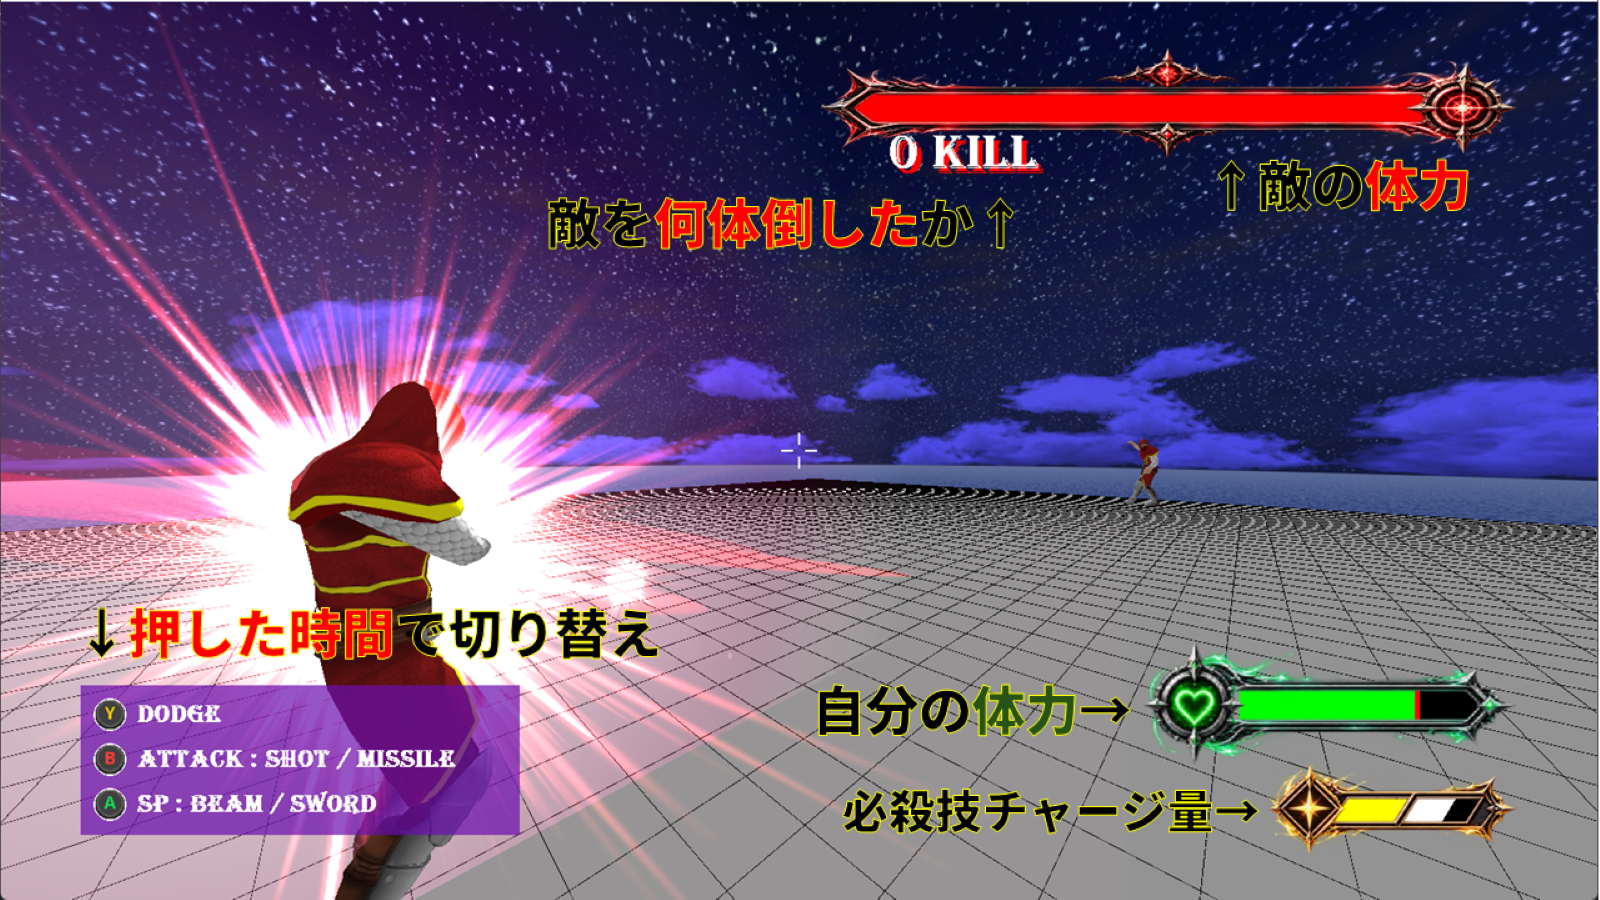
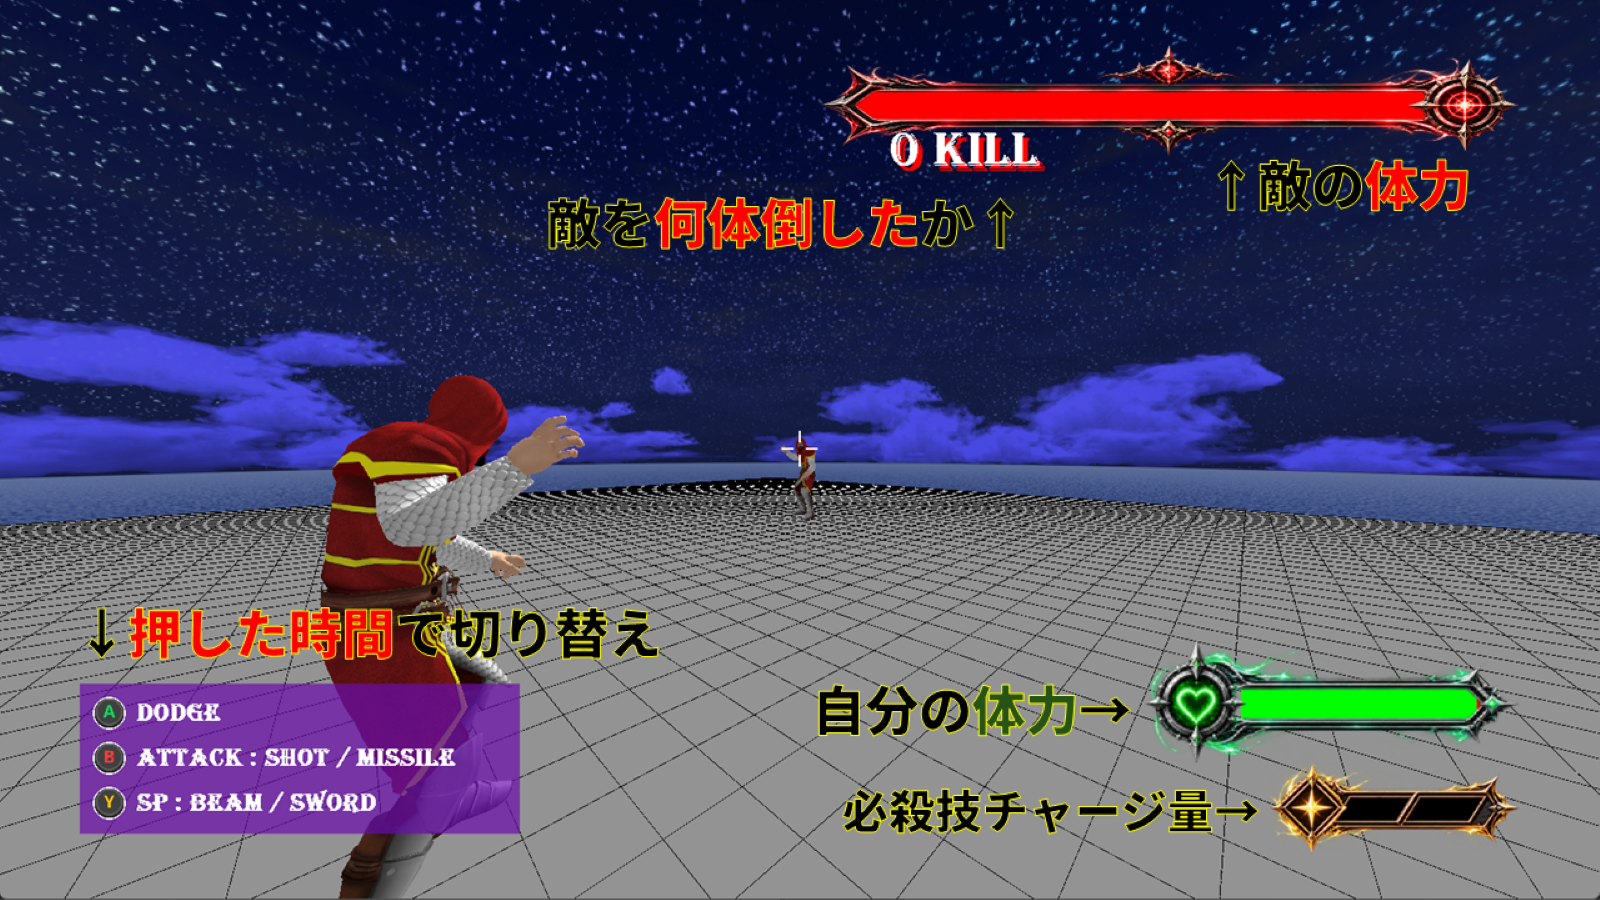
up

diff --git a/2026_summer/UIs/UIManager.cpp b/2026_summer/UIs/UIManager.cpp
@@ -134,13 +134,13 @@ void UIManager::DrawControlGuide()
 
 	SetFontSize(GUIDE_FONT_SIZE);
 
-	DrawExtendGraph(GUIDE_ICON_X, GUIDE_ROW1_Y, GUIDE_ICON_X + GUIDE_ICON_SIZE, GUIDE_ROW1_Y + GUIDE_ICON_SIZE, _guideYButtonH, true);
+	DrawExtendGraph(GUIDE_ICON_X, GUIDE_ROW1_Y, GUIDE_ICON_X + GUIDE_ICON_SIZE, GUIDE_ROW1_Y + GUIDE_ICON_SIZE, _guideAButtonH, true);
 	DrawFormatString(GUIDE_TEXT_X, GUIDE_ROW1_Y + GUIDE_TEXT_Y_OFFSET, GUIDE_TEXT_COLOR, "Dodge");
 
 	DrawExtendGraph(GUIDE_ICON_X, GUIDE_ROW2_Y, GUIDE_ICON_X + GUIDE_ICON_SIZE, GUIDE_ROW2_Y + GUIDE_ICON_SIZE, _guideBButtonH, true);
 	DrawFormatString(GUIDE_TEXT_X, GUIDE_ROW2_Y + GUIDE_TEXT_Y_OFFSET, GUIDE_TEXT_COLOR, "Attack : Shot / Missile");
 
-	DrawExtendGraph(GUIDE_ICON_X, GUIDE_ROW3_Y, GUIDE_ICON_X + GUIDE_ICON_SIZE, GUIDE_ROW3_Y + GUIDE_ICON_SIZE, _guideAButtonH, true);
+	DrawExtendGraph(GUIDE_ICON_X, GUIDE_ROW3_Y, GUIDE_ICON_X + GUIDE_ICON_SIZE, GUIDE_ROW3_Y + GUIDE_ICON_SIZE, _guideYButtonH, true);
 	DrawFormatString(GUIDE_TEXT_X, GUIDE_ROW3_Y + GUIDE_TEXT_Y_OFFSET, GUIDE_TEXT_COLOR, "SP : Beam / Sword");
 
 	SetFontSize(NORMAL_FONT_SIZE);

diff --git a/2026_summer/Players/Player.cpp b/2026_summer/Players/Player.cpp
@@ -99,7 +99,8 @@ Player::Player() :
 	_ultCirclePlayingH(-1),
 	_targetPlayingH(-1),
 	_dodgeEffectPlayingH(-1),
-	_isDodge(false), _playerMagics()
+	_isDodge(false), _playerMagics(),
+	_gameSE()
 {
 }
 
